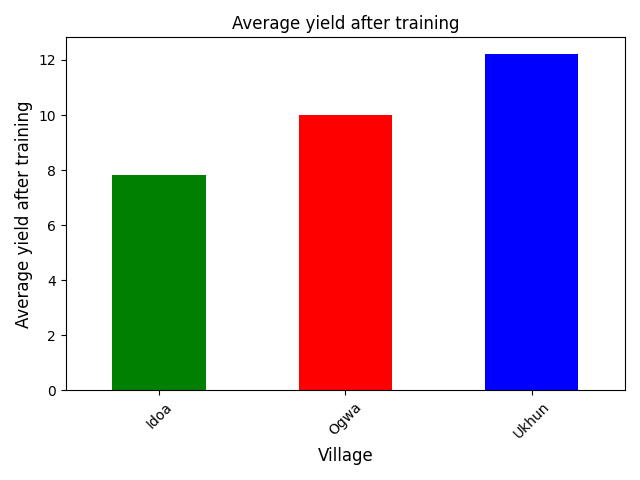
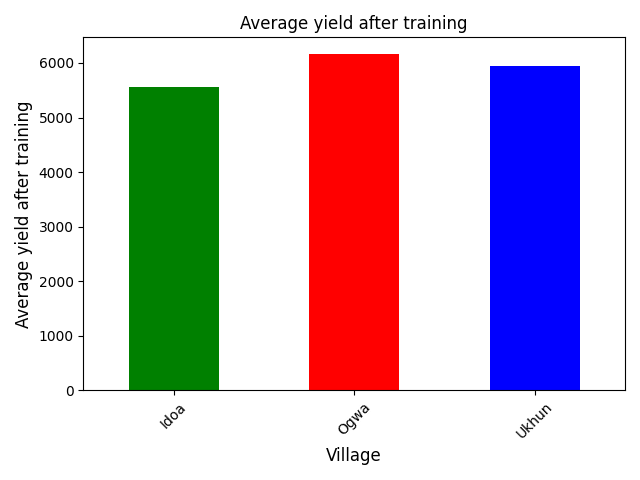
i have added more

diff --git a/jpil_farmers_analysis.py b/jpil_farmers_analysis.py
@@ -2,7 +2,7 @@
 
 import pandas as pd
 import matplotlib.pyplot as plt
-
+ 
 #importing the excel file
 df= pd.read_excel("farmers_analysis.xlsx", header=1)
 print(df.columns)
@@ -22,7 +22,9 @@ plt.tight_layout()
 plt.savefig("Average_Crop_Yield_After_Training.png")
 #plt.show()
 
-#which village use the most fertilizer on average?
+
+
+#which village used most fertilizers on average?
 most_fertilizer_used=df.groupby("Village")["Fertilizer Used kg"].mean()
 print(most_fertilizer_used)
 
@@ -34,4 +36,74 @@ plt.ylabel("Most fertilizer used", fontsize=12)
 plt.xticks(rotation=45)
 plt.tight_layout()
 plt.savefig("Most_fertilizer_used.png")
+#plt.show()
+
+
+#which crop type had the highest average farm size-cassava or yam?
+crop_type_avg_farm_size=df.groupby("Crop Type")["Farm Size ha"].mean()
+print(crop_type_avg_farm_size)
+
+#crop_type_avg_farm_size.plot(kind="bar", color=["coral", "purple", "green"])
+plt.title("average crop type")
+plt.xlabel("Crop Type", fontsize=12)
+plt.ylabel("Farm Size", fontsize=12)
+plt.xticks(rotation=45)
+plt.tight_layout()
+plt.savefig("crop_type_farm_size.png")
+#plt.show()
+
+
+#on average how much did yield improve per village before and after training
+avg_yield_per_village = df.groupby("Village")[["Yield Before kg per hec", "Yield After kg per hec"]].mean()
+print(avg_yield_per_village)
+
+avg_yield_per_village.plot(kind="bar", color=["brown","blue", "indigo"])
+plt.title("average yield before and after training")
+plt.xlabel("Village", fontsize=14)
+plt.ylabel("Yield kg per hec")
+plt.xticks(rotation=45)
+plt.legend(["Before training", "After training"])
+plt.savefig("Average_yield_per_village.png")
+plt.tight_layout()
+#plt.show()
+
+#what is the typical yield change for cassava farmers compared to yam farmers?
+typical_yield_change=df.groupby("Crop Type")["Yield Change"].mean()
+print(typical_yield_change)
+
+#typical_yield_change.plot(kind="bar", color=["orange", "green"])
+plt.title("Typical yield change")
+plt.xlabel("Crop type", fontsize=14)
+plt.ylabel("Yield change")
+plt.xticks(rotation=45)
+plt.tight_layout()
+plt.savefig("Typical_yield_change.png")
+#plt.show()
+
+
+#what is the typical amount of fertilizer used by farmers who used it correctly and incorrectly?
+amount_of_fertilizer_used=df.groupby("Fertilizer Type")["Fertilizer Used kg"].count()
+print(amount_of_fertilizer_used)
+
+#amount_of_fertilizer_used.plot(kind="bar", color=["blue","green"])
+plt.title("Amount of fertilizer used")
+plt.xlabel("Fertilizer type")
+plt.ylabel("Fertilizer used")
+plt.xticks(rotation=45)
+plt.tight_layout()
+plt.savefig("Amount_of_fertilizer_used.png")
+#plt.show()
+
+#what is the median farm size for farmers who had pest problems versus those who did not?
+median_farm_size=df.groupby("Pest Incidence")["Farm Size ha"].median()
+print(median_farm_size)
+
+median_farm_size.plot(kind="bar", color=["orange","blue"])
+plt.title("Median_farm_size", fontsize=12)
+plt.xlabel("Pest incidence", fontsize=14)
+plt.ylabel("Farm size ha")
+plt.xticks(rotation=45)
+plt.savefig("Median_farm_size.png")
+plt.tight_layout()
 plt.show()
+
